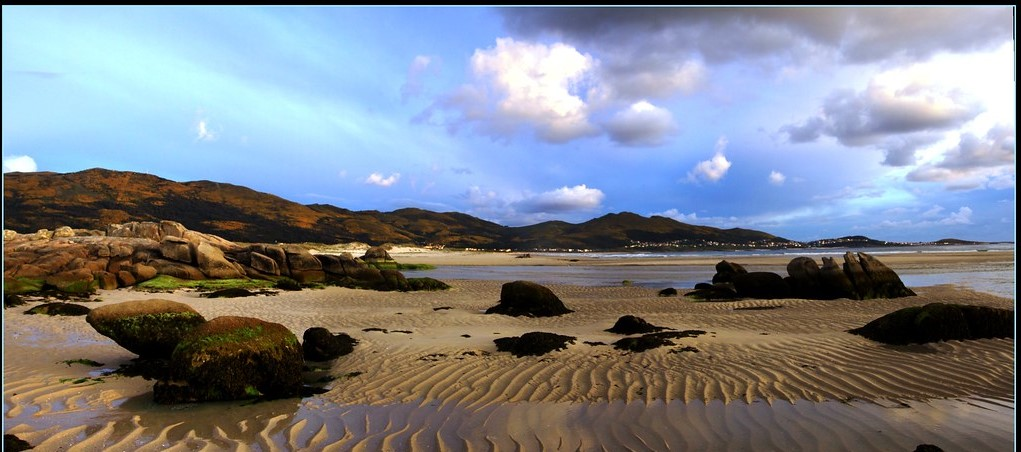
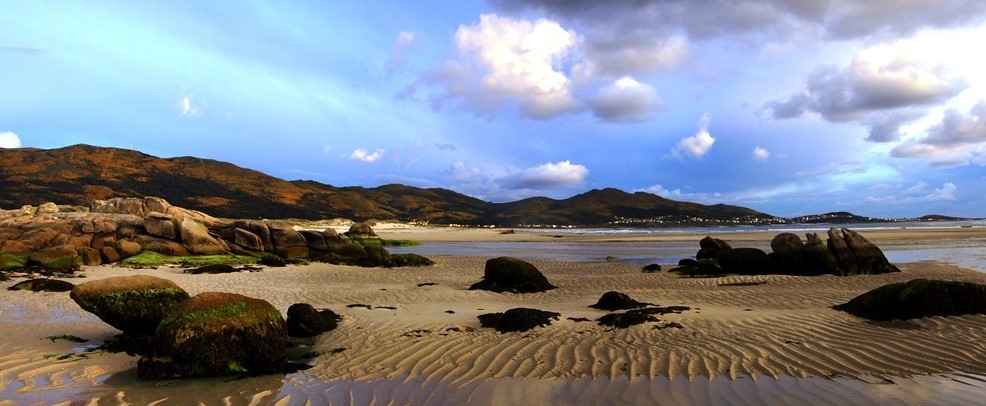
add images

diff --git a/specialsMenu.html b/specialsMenu.html
@@ -46,24 +46,24 @@
                 </div>
                 <div class="carousel-inner">
                     <div class="carousel-item active">
-                        <img src="images/kaboompics_bourbon-glazed-salmon-2851.jpg" class="d-block w-100" alt="Plato de Asado de Tira Uruguayo">
+                        <img src="IMG 3.JPG" class="d-block w-100" alt="Plato de Asado de Tira Uruguayo">
                         <div class="carousel-caption d-none d-md-block">
                             <h3>Asado de Tira a la Parrilla</h3>
                             <p>Un clásico uruguayo. Costillar de ternera cortado fino, cocinado lentamente sobre las brasas para un sabor profundo y una textura tierna. Acompañado de nuestro chimichurri casero.</p>
                         </div>
                     </div>
                     <div class="carousel-item">
-                        <img src="images/kaboompics_bourbon-glazed-salmon-2855.jpg" class="d-block w-100" alt="Plato de Pulpo a la Gallega o 'Polbo á feira'">
+                        <img src="Tortas Fritas.jpg" class="d-block w-100" alt="Las orellas Uruguayas">
                         <div class="carousel-caption d-none d-md-block">
-                            <h3>Pulpo 'Á Feira' de la Costa</h3>
-                            <p>La esencia de Galicia. Pulpo cocido a la perfección, servido sobre patatas cocidas y aderezado con pimentón de La Vera, aceite de oliva virgen extra y sal gruesa.</p>
+                            <h3>Tortas fritas</h3>
+                            <p>La esencia de Uruguay con raíces gallegas</p>
                         </div>
                     </div>
                     <div class="carousel-item">
-                        <img src="images/kaboompics_bourbon-glazed-salmon-2860.jpg" class="d-block w-100" alt="Entrecot a la brasa con guarnición de patatas">
+                        <img src="Panqueques.jpg" class="d-block w-100" alt="Filloas Uruguayas">
                         <div class="carousel-caption d-none d-md-block">
-                            <h3>Entrecot Gallego con Cachelos</h3>
-                            <p>Un corte de nuestra mejor selección, sellado en la brasa para conservar sus jugos. Acompañado de los tradicionales *cachelos* (patatas cocidas) de la comarca.</p>
+                            <h3>Panqueques</h3>
+                            <p>Filloas Uruguayas</p>
                         </div>
                     </div>
                 </div>
